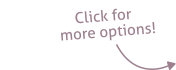
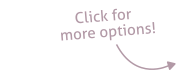
add expand hint animation

diff --git a/src/Components/SkinOptionsSelector/SkinOptionsSelector.cs b/src/Components/SkinOptionsSelector/SkinOptionsSelector.cs
@@ -10,6 +10,7 @@ public partial class SkinOptionsSelector : PanelContainer
     private PackedScene SkinOptionComponentScene;
 
     private VBoxContainer OptionsContainer;
+    private AnimationPlayer AnimationPlayer;
     private Panel ExpandHint;
     private SkinSelectorPopup SkinSelectorPopup;
 
@@ -24,10 +25,10 @@ public partial class SkinOptionsSelector : PanelContainer
         SkinOptionComponentScene = GD.Load<PackedScene>("res://src/Components/SkinOptionsSelector/SkinOptionComponent.tscn");
 
         OptionsContainer = GetNode<VBoxContainer>("%OptionsContainer");
+        AnimationPlayer = GetNode<AnimationPlayer>("%AnimationPlayer");
         ExpandHint = GetNode<Panel>("%ExpandHint");
         SkinSelectorPopup = GetNode<SkinSelectorPopup>("%SkinSelectorPopup");
 
-        ExpandHint.Visible = !Settings.Content.ArrowButtonPressed;
         SkinSelectorPopup.OnSelected = s =>
         {
             Settings.Log($"Skin option '{SkinOptionComponentInSelection.SkinOption.Name}' set to: {s}");
@@ -35,6 +36,9 @@ public partial class SkinOptionsSelector : PanelContainer
         };
 
         OsuData.SkinRemoved += OnSkinRemoved;
+
+        if (!Settings.Content.ArrowButtonPressed)
+            AnimationPlayer.Play("hint");
     }
 
     public override void _ExitTree()
